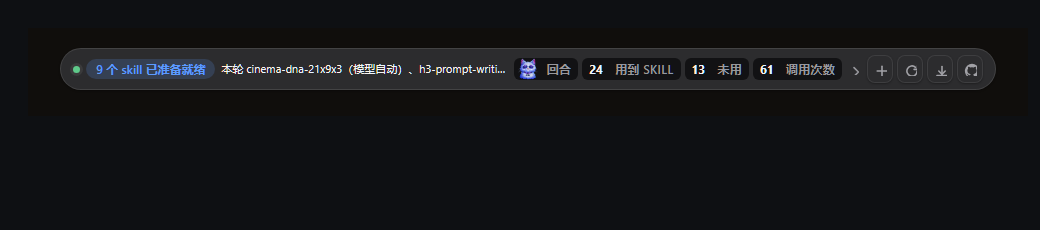
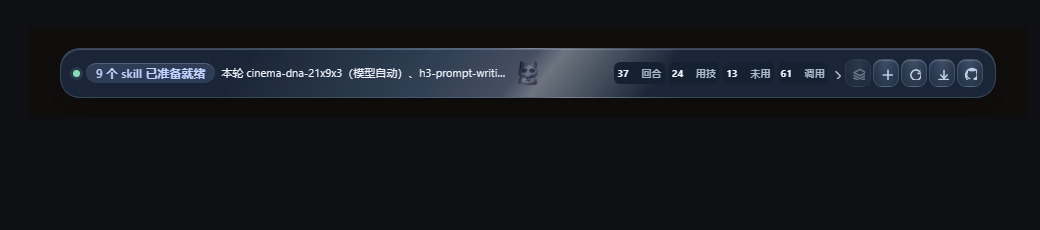
5.1.2: the composer strip stops wrapping, and the check that would have caught it is now a gate
Received from a second machine after this session failed to find the cause. Verified before committing, and one gap in the
delivered work was closed.

THE FIX, and its reasoning is the part I had wrong. I had concluded the strip's width rules were fine and the problem was that
its container queries were unnamed — so I named them, and the symptom did not change. The actual cause is that the BREAKPOINT
WAS AT THE WRONG WIDTH:

    the DSH composer caps this surface at 936px
    the narrow layout only began at 640px

So across the whole 640–936px range the strip kept desktop-sized counters AND a 104px 「背景自定义」 button in a control only
~630-934px wide, and solved the collision by WRAPPING the action group under the counters. The dock seat is a single-line
control, so that second row was clipped by the host — which is exactly the "narrow bar, cut off mid-label" in the report. The
breakpoint is now 950px, with two further steps at 720px and 640px, and the layout compacts the fixed-width pieces (short
stat labels, a 26px icon button) instead of wrapping anything.

That also explains why naming the containers changed nothing: naming fixes WHICH box is measured, and the box was being
measured correctly the whole time — against a threshold that could never be reached.

CLOSING THE GAP IN THE DELIVERED WORK: `tools/check-strip-responsive.mjs` is a genuinely better test than anything I wrote —
[…]

Changed region(s): [[0.0308, 0.1826, 0.9846, 0.4261]]

diff --git a/lib/client.js b/lib/client.js
@@ -1,4 +1,4 @@
-// dsh-echocat-skill-panel@5.1.1 \u2014 generated by tools/build-client.mjs. Do not edit.
+// dsh-echocat-skill-panel@5.1.2 \u2014 generated by tools/build-client.mjs. Do not edit.
 //
 // Lazy CommonJS bundle for the DSH client module system: loading this file only
 // registers the factory; the module bodies run when the factory is materialized.
@@ -181,14 +181,14 @@ window.__ModuleLoader__.load({
 				.sr-strip-shell .sr-strip-panel .sr-head .sr-bg-open{display:none}
 				.sr-strip-shell .sr-strip-actions{flex:none;flex-wrap:wrap}
 				.sr-strip-shell .sr-strip-actions .sr-bg-open{width:auto;min-width:104px;flex:none;height:28px}
-				.sr-strip-shell .sr-strip-right{flex-wrap:wrap;row-gap:6px}
+				.sr-strip-shell .sr-strip-right{flex-wrap:nowrap;row-gap:0}
 				/*
-				 * NAMED sr-strip \u2014 the container the strip shell declares. Unnamed, this resolved against the nearest ancestor container
-				 * instead, which is not the strip: the shell collapses its \u300c\u80cc\u666f\u81ea\u5b9a\u4e49\u300d button to the icon form only when the STRIP is
-				 * narrow, so an unrelated narrow ancestor was hiding that button's label on a full-width strip.
+				 * NAMED sr-strip \u2014 the container the strip shell declares. The host caps the composer strip at 936px, so the 104px text
+				 * button becomes its 26px icon form before the fixed counters and actions collide. Unnamed, this once resolved against an
+				 * unrelated ancestor and made the decision from the wrong width.
 				 */
-				@container sr-strip (max-width:640px){
-				 .sr-strip-shell .sr-strip-actions .sr-bg-open{width:28px;min-width:28px;padding-inline:0;justify-content:center}
+				@container sr-strip (max-width:950px){
+				 .sr-strip-shell .sr-strip-actions .sr-bg-open{width:26px;min-width:26px;height:26px;padding-inline:0;justify-content:center}
 				 .sr-strip-shell .sr-bg-open-label{display:none}
 				}
 				.sr-bg-backdrop.sr-backdrop{padding:24px;background:rgba(21,32,48,.30);z-index:10020}
@@ -452,6 +452,29 @@ window.__ModuleLoader__.load({
 				 */
 				@container sr-panel (max-width:1000px){.sr-root .sr-grid{grid-template-columns:repeat(2,minmax(0,1fr))}}
 				@keyframes sr-liquid-reveal{from{transform:translateY(4px)}to{transform:translateY(0)}}
+				.sr-strip-shell .sr-stat-l--short{display:none}
+				/*
+				 * The DSH composer caps this surface at 936px.  The strip used to keep desktop-sized counters and a 104px background
+				 * button at that width, then solve the collision by wrapping the action group under the counters.  The dock seat is a
+				 * single-line control, so that second row was clipped by the host on a new conversation.  Compact the fixed-width pieces
+				 * before they collide; the summary remains the one flexible, ellipsised item.
+				 */
+				@container sr-strip (max-width:950px){
+				 .sr-strip-shell .sr-strip{flex-wrap:nowrap;gap:8px;padding:10px 12px}
+				 .sr-strip-shell .sr-strip-left,.sr-strip-shell .sr-strip-right{min-width:0}
+				 .sr-strip-shell .sr-strip-right{flex-wrap:nowrap;column-gap:2px;row-gap:0}
+				 .sr-strip-shell .sr-strip-stats{flex-wrap:nowrap;gap:1px}
+				 .sr-strip-shell .sr-strip .sr-statcard--inline{padding-inline:2px;gap:2px}
+				 .sr-strip-shell .sr-statcard--inline .sr-stat-l,.sr-strip-shell .sr-statcard--inline .sr-stat-v{font-size:10px}
+				 .sr-strip-shell .sr-strip-stats .sr-stat-l--long{display:none}
+				 .sr-strip-shell .sr-strip-stats .sr-stat-l--short{display:inline}
+				 .sr-strip-shell .sr-strip-actions{flex-wrap:nowrap;gap:2px}
+				 .sr-strip-shell .sr-strip-actions .sr-btn{width:24px;height:24px}
+				}
+				/* At the host's two smallest composer widths the values stay visible and the full labels move to each chip's tooltip. */
+				@container sr-strip (max-width:720px){
+				 .sr-strip-shell .sr-strip-stats .sr-stat-l{display:none}
+				}
 				/*
 				 * THE STRIP'S NARROW LAYOUT IS QUERIED AGAINST THE STRIP ITSELF, BY NAME.
 				 *
@@ -462,15 +485,14 @@ window.__ModuleLoader__.load({
 				 * width is not the strip's, so the narrow layout applied to a strip that was nowhere near narrow \u2014 wrapping the four
 				 * counters onto a second line, growing the bar's height, and leaving it clipped.
 				 *
-				 * Naming the query container makes the condition say what it means: THIS STRIP is narrower than 640px. It cannot be
-				 * satisfied by an unrelated ancestor, whatever the host renders around the dock.
+				 * Naming the query container makes the condition say what it means: THIS STRIP is narrower than 640px. The narrow form now
+				 * compacts without wrapping, so a host dock with a single-line height cannot crop a second row.
 				 */
 				@container sr-strip (max-width:640px){
-				 .sr-strip-shell .sr-strip{flex-wrap:wrap;gap:8px;padding:10px 12px}
-				 .sr-strip-shell .sr-strip-left{flex:1 1 0;min-width:0}
-				 .sr-strip-shell .sr-strip-right{flex:1 1 0;min-width:0;justify-content:space-between}
-				 .sr-strip-shell .sr-strip-right{flex-wrap:wrap;row-gap:8px}
-				 .sr-strip-shell .sr-strip-stats{flex-wrap:wrap;gap:3px}
+				 .sr-strip-shell .sr-strip{flex-wrap:nowrap;gap:6px;padding:8px 10px}
+				 .sr-strip-shell .sr-strip-left,.sr-strip-shell .sr-strip-right{min-width:0}
+				 .sr-strip-shell .sr-strip-right{flex-wrap:nowrap;row-gap:0}
+				 .sr-strip-shell .sr-strip-stats{flex-wrap:nowrap;gap:2px}
 				 .sr-strip-shell .sr-strip-logo{order:0;flex:0 0 24px}
 				 .sr-root .sr-head{flex-wrap:wrap;gap:8px}
 				 .sr-root .sr-head-tools{margin-left:auto;flex-wrap:wrap}
@@ -915,7 +937,7 @@ window.__ModuleLoader__.load({
 				 * module table, resolved against the host's frozen platform table. So this copy is a
 				 * necessity \u2014 and therefore the one that silently goes stale. Bump it with the others.
 				 */
-				const VERSION = '5.1.1'
+				const VERSION = '5.1.2'
 
 				/**
 				 * Every element that can be the ROOT of one of this plugin's surfaces: the centre
@@ -7925,13 +7947,18 @@ window.__ModuleLoader__.load({
 				 * `compact` steps the chip down again so four of them fit on the strip's own bar line.
 				 * The DOM order is the same in all three forms.
 				 */
-				function Stat({ label, value, inline = false, compact = false }) {
+				function Stat({ label, shortLabel, value, inline = false, compact = false }) {
 				  const shown = useCountUp(value)
 				  if (inline === true) {
 				    return h(
 				      'span',
-				      { className: compact === true ? 'sr-statcard sr-statcard--inline sr-statcard--bar' : 'sr-statcard sr-statcard--inline' },
-				      h('span', { className: 'sr-stat-l' }, label),
+				      {
+				        className: compact === true ? 'sr-statcard sr-statcard--inline sr-statcard--bar' : 'sr-statcard sr-statcard--inline',
+				        'aria-label': `${label} ${shown}`,
+				        title: `${label} ${shown}`,
+				      },
+				      h('span', { className: shortLabel === undefined ? 'sr-stat-l' : 'sr-stat-l sr-stat-l--long' }, label),
+				      shortLabel === undefined ? null : h('span', { className: 'sr-stat-l sr-stat-l--short', 'aria-hidden': 'true' }, shortLabel),
 				      h('span', { className: 'sr-stat-v' }, String(shown)),
 				    )
 				  }
@@ -9494,10 +9521,10 @@ window.__ModuleLoader__.load({
 				        ? h(
 				            'span',
 				            { className: 'sr-strip-stats' },
-				            h(Stat, { label: '\u56de\u5408', value: s.turns ?? 0, inline: true, compact: true }),
-				            h(Stat, { label: '\u7528\u5230 skill', value: s.turnsWithSkills ?? 0, inline: true, compact: true }),
-				            h(Stat, { label: '\u672a\u7528', value: s.turnsWithoutSkills ?? 0, inline: true, compact: true }),
-				            h(Stat, { label: '\u8c03\u7528\u6b21\u6570', value: s.invocations ?? 0, inline: true, compact: true }),
+				            h(Stat, { label: '\u56de\u5408', shortLabel: '\u56de\u5408', value: s.turns ?? 0, inline: true, compact: true }),
+				            h(Stat, { label: '\u7528\u5230 skill', shortLabel: '\u7528\u6280', value: s.turnsWithSkills ?? 0, inline: true, compact: true }),
+				            h(Stat, { label: '\u672a\u7528', shortLabel: '\u672a\u7528', value: s.turnsWithoutSkills ?? 0, inline: true, compact: true }),
+				            h(Stat, { label: '\u8c03\u7528\u6b21\u6570', shortLabel: '\u8c03\u7528', value: s.invocations ?? 0, inline: true, compact: true }),
 				          )
 				        : null,
 				      // The turn count, shown ONLY when the counters are not.

diff --git a/src/client/liquid-style.js b/src/client/liquid-style.js
@@ -192,6 +192,29 @@ const LIQUID_CSS = `
  */
 @container sr-panel (max-width:1000px){.sr-root .sr-grid{grid-template-columns:repeat(2,minmax(0,1fr))}}
 @keyframes sr-liquid-reveal{from{transform:translateY(4px)}to{transform:translateY(0)}}
+.sr-strip-shell .sr-stat-l--short{display:none}
+/*
+ * The DSH composer caps this surface at 936px.  The strip used to keep desktop-sized counters and a 104px background
+ * button at that width, then solve the collision by wrapping the action group under the counters.  The dock seat is a
+ * single-line control, so that second row was clipped by the host on a new conversation.  Compact the fixed-width pieces
+ * before they collide; the summary remains the one flexible, ellipsised item.
+ */
+@container sr-strip (max-width:950px){
+ .sr-strip-shell .sr-strip{flex-wrap:nowrap;gap:8px;padding:10px 12px}
+ .sr-strip-shell .sr-strip-left,.sr-strip-shell .sr-strip-right{min-width:0}
+ .sr-strip-shell .sr-strip-right{flex-wrap:nowrap;column-gap:2px;row-gap:0}
+ .sr-strip-shell .sr-strip-stats{flex-wrap:nowrap;gap:1px}
+ .sr-strip-shell .sr-strip .sr-statcard--inline{padding-inline:2px;gap:2px}
+ .sr-strip-shell .sr-statcard--inline .sr-stat-l,.sr-strip-shell .sr-statcard--inline .sr-stat-v{font-size:10px}
+ .sr-strip-shell .sr-strip-stats .sr-stat-l--long{display:none}
+ .sr-strip-shell .sr-strip-stats .sr-stat-l--short{display:inline}
+ .sr-strip-shell .sr-strip-actions{flex-wrap:nowrap;gap:2px}
+ .sr-strip-shell .sr-strip-actions .sr-btn{width:24px;height:24px}
+}
+/* At the host's two smallest composer widths the values stay visible and the full labels move to each chip's tooltip. */
+@container sr-strip (max-width:720px){
+ .sr-strip-shell .sr-strip-stats .sr-stat-l{display:none}
+}
 /*
  * THE STRIP'S NARROW LAYOUT IS QUERIED AGAINST THE STRIP ITSELF, BY NAME.
  *
@@ -202,15 +225,14 @@ const LIQUID_CSS = `
  * width is not the strip's, so the narrow layout applied to a strip that was nowhere near narrow — wrapping the four
  * counters onto a second line, growing the bar's height, and leaving it clipped.
  *
- * Naming the query container makes the condition say what it means: THIS STRIP is narrower than 640px. It cannot be
- * satisfied by an unrelated ancestor, whatever the host renders around the dock.
+ * Naming the query container makes the condition say what it means: THIS STRIP is narrower than 640px. The narrow form now
+ * compacts without wrapping, so a host dock with a single-line height cannot crop a second row.
  */
 @container sr-strip (max-width:640px){
- .sr-strip-shell .sr-strip{flex-wrap:wrap;gap:8px;padding:10px 12px}
- .sr-strip-shell .sr-strip-left{flex:1 1 0;min-width:0}
- .sr-strip-shell .sr-strip-right{flex:1 1 0;min-width:0;justify-content:space-between}
- .sr-strip-shell .sr-strip-right{flex-wrap:wrap;row-gap:8px}
- .sr-strip-shell .sr-strip-stats{flex-wrap:wrap;gap:3px}
+ .sr-strip-shell .sr-strip{flex-wrap:nowrap;gap:6px;padding:8px 10px}
+ .sr-strip-shell .sr-strip-left,.sr-strip-shell .sr-strip-right{min-width:0}
+ .sr-strip-shell .sr-strip-right{flex-wrap:nowrap;row-gap:0}
+ .sr-strip-shell .sr-strip-stats{flex-wrap:nowrap;gap:2px}
  .sr-strip-shell .sr-strip-logo{order:0;flex:0 0 24px}
  .sr-root .sr-head{flex-wrap:wrap;gap:8px}
  .sr-root .sr-head-tools{margin-left:auto;flex-wrap:wrap}

diff --git a/src/client/panel.js b/src/client/panel.js
@@ -512,13 +512,18 @@ function useCountUp(target) {
  * `compact` steps the chip down again so four of them fit on the strip's own bar line.
  * The DOM order is the same in all three forms.
  */
-function Stat({ label, value, inline = false, compact = false }) {
+function Stat({ label, shortLabel, value, inline = false, compact = false }) {
   const shown = useCountUp(value)
   if (inline === true) {
     return h(
       'span',
-      { className: compact === true ? 'sr-statcard sr-statcard--inline sr-statcard--bar' : 'sr-statcard sr-statcard--inline' },
-      h('span', { className: 'sr-stat-l' }, label),
+      {
+        className: compact === true ? 'sr-statcard sr-statcard--inline sr-statcard--bar' : 'sr-statcard sr-statcard--inline',
+        'aria-label': `${label} ${shown}`,
+        title: `${label} ${shown}`,
+      },
+      h('span', { className: shortLabel === undefined ? 'sr-stat-l' : 'sr-stat-l sr-stat-l--long' }, label),
+      shortLabel === undefined ? null : h('span', { className: 'sr-stat-l sr-stat-l--short', 'aria-hidden': 'true' }, shortLabel),
       h('span', { className: 'sr-stat-v' }, String(shown)),
     )
   }
@@ -2081,10 +2086,10 @@ function SkillReportStrip({ state, onRefresh, onUse, now, initialOpen = false })
         ? h(
             'span',
             { className: 'sr-strip-stats' },
-            h(Stat, { label: '回合', value: s.turns ?? 0, inline: true, compact: true }),
-            h(Stat, { label: '用到 skill', value: s.turnsWithSkills ?? 0, inline: true, compact: true }),
-            h(Stat, { label: '未用', value: s.turnsWithoutSkills ?? 0, inline: true, compact: true }),
-            h(Stat, { label: '调用次数', value: s.invocations ?? 0, inline: true, compact: true }),
+            h(Stat, { label: '回合', shortLabel: '回合', value: s.turns ?? 0, inline: true, compact: true }),
+            h(Stat, { label: '用到 skill', shortLabel: '用技', value: s.turnsWithSkills ?? 0, inline: true, compact: true }),
+            h(Stat, { label: '未用', shortLabel: '未用', value: s.turnsWithoutSkills ?? 0, inline: true, compact: true }),
+            h(Stat, { label: '调用次数', shortLabel: '调用', value: s.invocations ?? 0, inline: true, compact: true }),
           )
         : null,
       // The turn count, shown ONLY when the counters are not.

diff --git a/src/client/background-style.js b/src/client/background-style.js
@@ -33,14 +33,14 @@ const BACKGROUND_CSS=`
 .sr-strip-shell .sr-strip-panel .sr-head .sr-bg-open{display:none}
 .sr-strip-shell .sr-strip-actions{flex:none;flex-wrap:wrap}
 .sr-strip-shell .sr-strip-actions .sr-bg-open{width:auto;min-width:104px;flex:none;height:28px}
-.sr-strip-shell .sr-strip-right{flex-wrap:wrap;row-gap:6px}
+.sr-strip-shell .sr-strip-right{flex-wrap:nowrap;row-gap:0}
 /*
- * NAMED sr-strip — the container the strip shell declares. Unnamed, this resolved against the nearest ancestor container
- * instead, which is not the strip: the shell collapses its 「背景自定义」 button to the icon form only when the STRIP is
- * narrow, so an unrelated narrow ancestor was hiding that button's label on a full-width strip.
+ * NAMED sr-strip — the container the strip shell declares. The host caps the composer strip at 936px, so the 104px text
+ * button becomes its 26px icon form before the fixed counters and actions collide. Unnamed, this once resolved against an
+ * unrelated ancestor and made the decision from the wrong width.
  */
-@container sr-strip (max-width:640px){
- .sr-strip-shell .sr-strip-actions .sr-bg-open{width:28px;min-width:28px;padding-inline:0;justify-content:center}
+@container sr-strip (max-width:950px){
+ .sr-strip-shell .sr-strip-actions .sr-bg-open{width:26px;min-width:26px;height:26px;padding-inline:0;justify-content:center}
  .sr-strip-shell .sr-bg-open-label{display:none}
 }
 .sr-bg-backdrop.sr-backdrop{padding:24px;background:rgba(21,32,48,.30);z-index:10020}

diff --git a/src/client/theme.js b/src/client/theme.js
@@ -26,7 +26,7 @@ const TAG_ID = 'dsh-echocat-skill-panel/panel.css'
  * module table, resolved against the host's frozen platform table. So this copy is a
  * necessity — and therefore the one that silently goes stale. Bump it with the others.
  */
-const VERSION = '5.1.1'
+const VERSION = '5.1.2'
 
 /**
  * Every element that can be the ROOT of one of this plugin's surfaces: the centre

diff --git a/src/version.js b/src/version.js
@@ -13,4 +13,4 @@
  * (`package.json`, this file, `src/client/theme.js`) — the client copy was unchecked until
  * 4.0.1 and had already gone stale once by the time anyone looked.
  */
-export const VERSION = '5.1.1'
+export const VERSION = '5.1.2'

diff --git a/RELEASE_NOTES_5.1.2.md b/RELEASE_NOTES_5.1.2.md
@@ -1,0 +1,36 @@
+# EchoCat Skill Panel 5.1.2 — 修复新会话横栏换行与裁切
+
+## 现象
+
+新会话的输入框上方横栏看起来是全宽，但计数、摘要或操作按钮会被挤到第二行；宿主的 composer dock 按单行控件布局时，第二行会被裁掉，表现成文字只剩半截或界面没有随宽度自适应。
+
+## 根因
+
+5.1.1 修复了匿名容器查询，却只验证了 `.sr-strip-shell` 外框的宽度。真实横栏内部仍有两个冲突：
+
+- 右半栏同时容纳四个计数、展开箭头、`背景自定义` 和其余操作按钮，固定内容总宽度超过了半栏。
+- `.sr-strip-right` 与 640px 容器规则允许/强制换行，用第二行掩盖了宽度冲突。
+
+所以旧的宽度契约可以 57/57 全绿，真实组件仍然是两行。
+
+## 修复
+
+- 横栏和右半栏始终保持单行，不再以换行处理冲突。
+- 在宿主 936px composer 上限内，`背景自定义` 自动收成保留完整 `aria-label` 与悬停标题的图标按钮。
+- 四个计数在常规宽度显示短标签；在宿主最窄两档只保留数值，完整标签仍保留在每个计数的 `title` 与 `aria-label` 中。
+- 收紧计数、按钮与间距，但保留摘要省略、中央 EchoCat 标志、四个计数和全部操作功能。
+
+## 新回归门
+
+新增真实 Chromium 测量 `tools/check-strip-responsive.mjs`，直接渲染插件自己的组件和最终样式，在宿主四档宽度下检查：
+
+- 横栏只有一行；
+- 横向、纵向均不溢出；
+- 右半栏内部不重叠、不越界；
+- 所有子项都留在横栏边界内。
+
+这项检查在 5.1.1 上四档全部失败，在 5.1.2 上全部通过。
+
+## 安装
+
+解压后运行 `安装.ps1`，再从托盘完全退出并重新打开 DSH Desktop Beta。已保存的背景设置、本地图片与其他插件数据不受影响。

diff --git a/交接说明-横栏布局修复.md b/交接说明-横栏布局修复.md
@@ -1,0 +1,18 @@
+# 横栏布局修复交接说明（5.1.2）
+
+## 修复内容
+
+- 根因不是横栏外壳宽度，而是右半区的统计项、背景按钮和操作按钮总宽度超过可用空间，同时旧样式允许 `flex-wrap`，因此操作按钮被挤到第二行并被 DSH 输入区裁切。
+- 右半区现在始终保持单行；在较窄的宿主宽度下，背景按钮收成图标，统计项使用短标签；极窄宽度只隐藏统计文字标签，数值仍保留。
+- 四个统计项增加了 `aria-label` 和 `title`，压缩显示时仍可识别含义。
+
+## 回归验证
+
+- 原有 12 组测试门全部通过。
+- 真实组件在 Chromium 中按 648、712、851、952 四档 DSH 宿主宽度验证：均为单行、无水平或垂直溢出、右侧按钮未重叠且没有越界。
+- 输入框横栏宽度回归：57/57 通过。
+- 版本：`5.1.2`；已构建客户端：`lib/client.js`。
+
+## 安装边界
+
+本包只是在隔离副本中修复和打包，没有改动、安装或重启现有 DSH。请解压后由使用者运行 `安装-3.0.ps1`，随后完整退出并重新打开 DSH Desktop Beta 进行实机验收。

diff --git a/README.md b/README.md
@@ -1,8 +1,8 @@
 # dsh-echocat-skill-panel
 
-> 5.1.1 修复：包名与仓库名改为 `dsh-echocat-skill-panel`，功能与 4.4 完全一致。详见 [5.0.0 更新说明](RELEASE_NOTES_5.1.0.md)。
+> 5.1.2 修复：新会话横栏在正常宽度下错误换成两行、继而被宿主裁切。详见 [5.1.2 更新说明](RELEASE_NOTES_5.1.2.md)。
 
-**v5.1.1** · DSH Desktop Beta 的 cordis 插件：统计每轮对话用到了哪些 skill，并让你**在应用里直接装卸、更新它们**。
+**v5.1.2** · DSH Desktop Beta 的 cordis 插件：统计每轮对话用到了哪些 skill，并让你**在应用里直接装卸、更新它们**。
 
 判定不依赖模型自觉 —— 插件从会话事件流推导本轮调了哪些 skill（模型自动、你手动 `/name`、或一个都没用），模型忘了说也照样报。
 

diff --git a/安装说明.md b/安装说明.md
@@ -2,7 +2,7 @@
 
 给**另一台机器 / 另一位用户**用。整个文件夹就是插件本体，拷走即可。
 
-- 包名：`dsh-echocat-skill-panel`　版本：`5.1.1`（**全小写**，npm 风格；这个名字同时是 Loader 条目名、vendor 目录名和客户端 bundle id，**五处必须一致** —— 见第五节）
+- 包名：`dsh-echocat-skill-panel`　版本：`5.1.2`（**全小写**，npm 风格；这个名字同时是 Loader 条目名、vendor 目录名和客户端 bundle id，**五处必须一致** —— 见第五节）
 - 面向：DSH Desktop Beta，实测 `2.0.11-beta.1` / 内核 `@deepseek-ai/*` `0.1.6-alpha.1` / cordis 4
 - 自带已构建的 `lib/client.js`，**目标机器不需要任何构建步骤**
 
